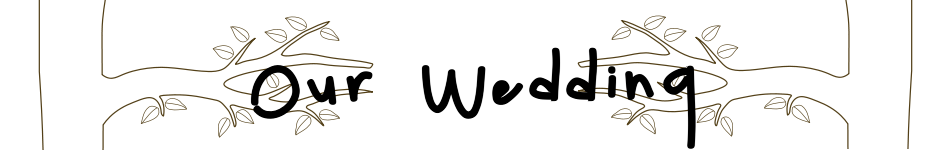
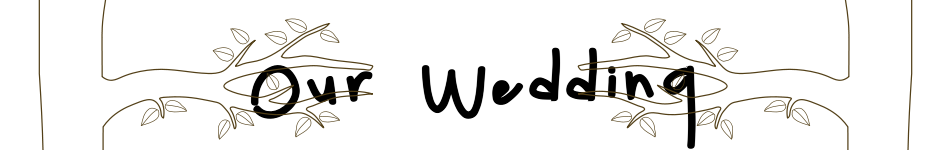
tweaked trees until they were good

Changed region(s): [[0.0916, 0.1067, 0.3968, 0.9333], [0.6105, 0.1067, 0.9158, 0.9333], [0.8853, 0.7733, 0.9158, 0.8267]]

diff --git a/static/welcome.html b/static/welcome.html
@@ -7,6 +7,7 @@
     <style>
       #left {
         background: url(images/treeleft.png);
+        height: 510px;
       }
       #navigation {
         list-style: none;
@@ -14,7 +15,7 @@
     </style>
   </head>
   <body>
-    <div class="container showgrid">
+    <div class="container">
       <div id="header" class="span-24 last">
 	<img src="images/treetop.png"/>
       </div>
